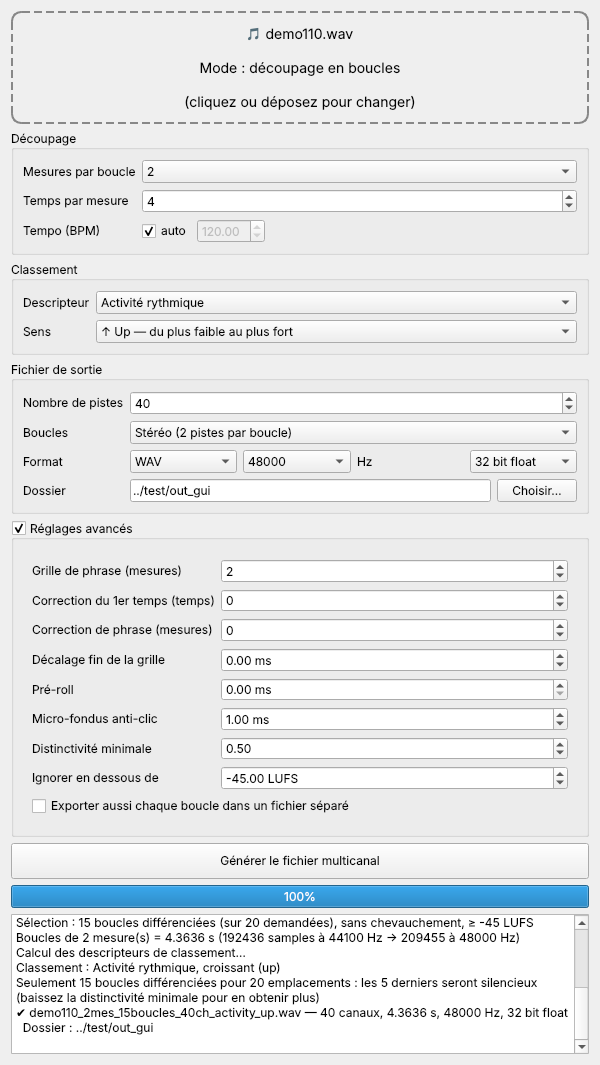
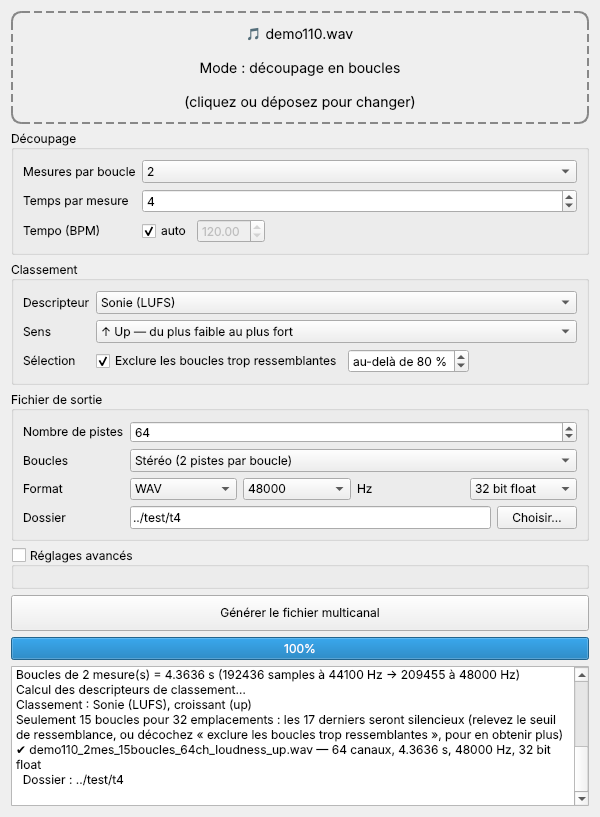
Add 'exclude too-similar loops' option, on by default
Similarity is expressed in % relative to the median distance between all
loops (100 % = identical). Default 80 % reproduces loop_slicer.py's
--min-dist 0.5. Now also applies in merge mode, so duplicate bounces are
dropped and reported. The CSV gains a ressemblance_max_% column.

diff --git a/loopslicer/engine.py b/loopslicer/engine.py
@@ -75,7 +75,10 @@ class Settings:
     beat_offset_ms: float = 0.0          # décalage fin de toute la grille
     preroll_ms: float = 0.0              # démarre chaque boucle un peu avant le temps
     # sélection
-    min_dist: float = 0.5                # distinctivité minimale pour ajouter une boucle
+    exclude_similar: bool = True         # écarte les boucles trop ressemblantes
+    similarity_max: float = 80.0         # % : ressemblance au-delà de laquelle on écarte
+    min_dist: Optional[float] = None     # seuil absolu (expert, cf. loop_slicer.py --min-dist) ;
+                                         # s'il est donné, il remplace similarity_max
     loud_floor: float = -45.0            # ignore les segments sous ce niveau (LUFS)
     weights: tuple = (1.0, 1.0, 1.0, 0.7)  # timbre, harmonie, texture, loudness
     # classement
@@ -102,6 +105,7 @@ class Loop:
     sr_in: int = 0
     audio: Optional[np.ndarray] = field(default=None, repr=False)  # au sr de sortie
     distinct: float = float("nan")          # distance min. aux boucles déjà choisies
+    similarity: float = float("nan")        # % de ressemblance avec la plus proche des autres retenues
     pick_order: int = 0
     features: dict = field(default_factory=dict)
 
@@ -261,10 +265,23 @@ def segment_features(seg, sr):
                 tex=np.r_[con.mean(1), bands, on.mean(), on.std(), side])
 
 
-def select(bars, feats, louds, nbars, n_max, min_dist, loud_floor, weights):
-    """Sélection gloutonne max-min : on part de la boucle la plus éloignée de
-    toutes les autres, puis on ajoute à chaque fois la plus éloignée de celles
-    déjà choisies, sans chevauchement (nbars), tant que la distance ≥ min_dist."""
+def similarity_threshold(D, s):
+    """Distance en dessous de laquelle deux boucles sont « trop ressemblantes ».
+
+    La ressemblance est exprimée en % par rapport à la distance médiane entre
+    toutes les boucles du morceau : 100 % = identiques, 0 % = aussi différentes
+    que deux boucles prises au hasard. 80 % correspond à peu près au seuil
+    --min-dist 0.5 de loop_slicer.py."""
+    if s.min_dist is not None:
+        return float(s.min_dist)
+    if not s.exclude_similar:
+        return 0.0
+    off = D[~np.eye(len(D), dtype=bool)]
+    med = float(np.median(off)) if off.size else 0.0
+    return (1 - s.similarity_max / 100.0) * med
+
+
+def distance_matrix(feats, louds, weights):
     def Z(k):
         X = np.array([f[k] for f in feats])
         X = (X - X.mean(0)) / (X.std(0) + 1e-9)
@@ -273,13 +290,21 @@ def select(bars, feats, louds, nbars, n_max, min_dist, loud_floor, weights):
     blocks = [Z("timbre") * weights[0], Z("harm") * weights[1], Z("tex") * weights[2],
               (L - L.mean()) / (L.std() + 1e-9) * weights[3]]
     X = np.hstack(blocks)
-    D = np.linalg.norm(X[:, None] - X[None], axis=2)
+    return np.linalg.norm(X[:, None] - X[None], axis=2)
+
+
+def select(bars, D, louds, nbars, n_max, min_dist, loud_floor):
+    """Sélection gloutonne max-min : on part de la boucle la plus éloignée de
+    toutes les autres, puis on ajoute à chaque fois la plus éloignée de celles
+    déjà choisies, sans chevauchement (nbars), tant que la distance ≥ min_dist.
+    Renvoie ([(indice, distance)], raison de l'arrêt)."""
     bars = np.asarray(bars)
     valid = np.isfinite(louds) & (louds > loud_floor)
     if not valid.any():
-        return []
+        return [], "aucune boucle assez forte"
     first = int(np.argmax(np.where(valid, D.sum(1), -1)))
     sel, dmins = [first], [np.inf]
+    reason = "plus de candidates disponibles"
     while len(sel) < n_max:
         best, bi = -1, None
         for i in range(len(bars)):
@@ -288,11 +313,27 @@ def select(bars, feats, louds, nbars, n_max, min_dist, loud_floor, weights):
             d = D[i, sel].min()
             if d > best:
                 best, bi = d, i
-        if bi is None or best < min_dist:
+        if bi is None:
+            break
+        if best < min_dist:
+            reason = "les autres candidates ressemblent trop aux boucles retenues"
             break
         sel.append(bi)
         dmins.append(best)
-    return list(zip(sel, dmins))
+    else:
+        reason = "nombre de pistes atteint"
+    return list(zip(sel, dmins)), reason
+
+
+def _similarities(D, idx):
+    """% de ressemblance de chaque boucle retenue avec la plus proche des autres."""
+    off = D[~np.eye(len(D), dtype=bool)]
+    med = float(np.median(off)) if off.size else 1.0
+    out = []
+    for i in idx:
+        others = [D[i, j] for j in idx if j != i]
+        out.append(100 * max(0.0, 1 - min(others) / med) if others and med > 0 else float("nan"))
+    return out
 
 
 # --------------------------------------------------------------------------
@@ -381,19 +422,23 @@ def slice_file(path: str, s: Settings, log: Logger, progress: Progress):
     louds = np.array(louds)
 
     n_max = _slots(s, len(cands))
-    picked = select([c[0] for c in cands], feats, louds, nbars, n_max,
-                    s.min_dist, s.loud_floor, s.weights)
+    D = distance_matrix(feats, louds, s.weights)
+    thr = similarity_threshold(D, s)
+    picked, reason = select([c[0] for c in cands], D, louds, nbars, n_max, thr, s.loud_floor)
+    sims = _similarities(D, [i for i, _ in picked])
     log(f"Sélection : {len(picked)} boucles différenciées (sur {n_max} demandées), "
-        f"sans chevauchement, ≥ {s.loud_floor:.0f} LUFS")
+        f"sans chevauchement, ≥ {s.loud_floor:.0f} LUFS — arrêt : {reason}")
+    if s.exclude_similar and s.min_dist is None:
+        log(f"  boucles trop ressemblantes écartées (ressemblance > {s.similarity_max:.0f} %)")
 
     loop_seconds = nbars * BAR
     length_out = int(round(loop_seconds * s.sample_rate))
     loops = []
-    for order, (i, dm) in enumerate(picked, 1):
+    for order, ((i, dm), sim) in enumerate(zip(picked, sims), 1):
         bar, st = cands[i]
         loops.append(Loop(index=bar // s.phrase_bars + 1, source=os.path.basename(path),
                           start_sample=st, start_measure=bar + 1, raw=y[st:st + L], sr_in=sr,
-                          distinct=float(dm), pick_order=order))
+                          distinct=float(dm), similarity=sim, pick_order=order))
     log(f"Boucles de {nbars} mesure(s) = {loop_seconds:.4f} s "
         f"({L} samples à {sr} Hz → {length_out} à {s.sample_rate} Hz)")
     info = dict(mode="slice", bpm=bpm, beat0_s=beat0, downbeat_beat=db, phrase_bar=pb,
@@ -432,15 +477,28 @@ def merge_files(paths: Sequence[str], s: Settings, log: Logger, progress: Progre
         progress(0.05 + 0.5 * (i + 1) / len(raw))
 
     n_max = _slots(s, len(loops))
-    if len(loops) > n_max:
-        picked = select(np.arange(len(loops)), feats, np.array(louds), 0, n_max,
-                        -np.inf, s.loud_floor, s.weights)
-        log(f"{len(loops)} fichiers pour {n_max} emplacements : on garde les {len(picked)} plus différenciés")
+    louds = np.array(louds)
+    D = distance_matrix(feats, louds, s.weights)
+    if len(loops) > n_max or s.exclude_similar or s.min_dist is not None:
+        thr = similarity_threshold(D, s)
+        picked, reason = select(np.arange(len(loops)), D, louds, 0, n_max, thr, s.loud_floor)
+        dropped = sorted(set(range(len(loops))) - {i for i, _ in picked})
+        log(f"{len(picked)} fichiers retenus sur {len(loops)} — arrêt : {reason}")
+        for i in dropped:
+            if not (np.isfinite(louds[i]) and louds[i] > s.loud_floor):
+                why = "trop faible"
+            else:
+                j = min((k for k, _ in picked), key=lambda k: D[i, k])
+                med = float(np.median(D[~np.eye(len(D), dtype=bool)]))
+                why = (f"ressemble à {loops[j].source} "
+                       f"({100 * max(0, 1 - D[i, j] / med):.0f} %)")
+            log(f"  écarté : {loops[i].source} — {why}")
     else:
         picked = [(i, np.nan) for i in range(len(loops))]
+    sims = _similarities(D, [i for i, _ in picked])
     chosen = []
-    for order, (i, dm) in enumerate(picked, 1):
-        loops[i].distinct, loops[i].pick_order = float(dm), order
+    for order, ((i, dm), sim) in enumerate(zip(picked, sims), 1):
+        loops[i].distinct, loops[i].pick_order, loops[i].similarity = float(dm), order, sim
         chosen.append(loops[i])
     info = dict(mode="merge", loop_seconds=length_out / s.sample_rate, loop_samples=length_out)
     return chosen, info
@@ -521,9 +579,12 @@ def write_output(ranked: List[Loop], info: dict, src_paths: Sequence[str],
     if s.n_tracks > 0 and s.n_tracks % cpl:
         log(f"Remarque : {s.n_tracks} pistes n'est pas un multiple de {cpl} — {slots} boucles")
     if len(ranked) < slots:
-        log(f"Seulement {len(ranked)} boucles différenciées pour {slots} emplacements : "
-            f"les {slots - len(ranked)} derniers seront silencieux "
-            f"(baissez la distinctivité minimale pour en obtenir plus)")
+        hint = (" (relevez le seuil de ressemblance, ou décochez « exclure les boucles "
+                "trop ressemblantes », pour en obtenir plus)"
+                if s.exclude_similar or s.min_dist is not None
+                else " (le morceau ne contient pas plus de boucles complètes)")
+        log(f"Seulement {len(ranked)} boucles pour {slots} emplacements : "
+            f"les {slots - len(ranked)} derniers seront silencieux{hint}")
     n_ch = slots * cpl
     length = info["loop_samples"]
     data = np.zeros((length, n_ch), dtype=np.float32)
@@ -566,7 +627,8 @@ def write_output(ranked: List[Loop], info: dict, src_paths: Sequence[str],
     with open(csv_path, "w", newline="", encoding="utf-8") as fh:
         w = csv.writer(fh)
         w.writerow(["rang", "canaux", "source", "mesure_debut", "debut_s",
-                    "debut_echantillon", "distinctivite", "ordre_selection", *FEATURE_KEYS]
+                    "debut_echantillon", "distinctivite", "ressemblance_max_%", "ordre_selection",
+                    *FEATURE_KEYS]
                    + (["fichier"] if loop_names else []))
         for i, L in enumerate(ranked):
             c0 = i * cpl + 1
@@ -575,6 +637,7 @@ def write_output(ranked: List[Loop], info: dict, src_paths: Sequence[str],
                         int(L.start_measure) if np.isfinite(L.start_measure) else "",
                         f"{L.start_sample / L.sr_in:.4f}", L.start_sample,
                         "" if not np.isfinite(L.distinct) else round(L.distinct, 2),
+                        "" if not np.isfinite(L.similarity) else round(L.similarity),
                         L.pick_order,
                         *[f"{L.features.get(k, float('nan')):.4f}" for k in FEATURE_KEYS]]
                        + ([loop_names[i]] if loop_names else []))

diff --git a/loopslicer/gui.py b/loopslicer/gui.py
@@ -130,6 +130,20 @@ class MainWindow(QWidget):
         self.order.addItem("↑ Up — du plus faible au plus fort", True)
         self.order.addItem("↓ Down — du plus fort au plus faible", False)
         f.addRow("Sens", self.order)
+        sim_row = QHBoxLayout()
+        self.excl = QCheckBox("Exclure les boucles trop ressemblantes")
+        self.excl.setChecked(True)
+        self.excl.setToolTip("Quand le morceau offre plus de boucles possibles que nécessaire, "
+                             "ou contient des passages répétés, on ne garde qu'une boucle par "
+                             "famille de boucles qui se ressemblent.")
+        self.sim = QSpinBox(); self.sim.setRange(30, 99); self.sim.setValue(80)
+        self.sim.setSuffix(" %"); self.sim.setPrefix("au-delà de ")
+        self.sim.setToolTip("Ressemblance (timbre, harmonie, texture, sonie) au-delà de laquelle "
+                            "une boucle est écartée. 100 % = identiques. Plus bas = plus sévère, "
+                            "donc moins de boucles.")
+        self.excl.toggled.connect(self.sim.setEnabled)
+        sim_row.addWidget(self.excl); sim_row.addWidget(self.sim); sim_row.addStretch()
+        f.addRow("Sélection", sim_row)
         root.addWidget(g_ord)
 
         # --- sortie ---------------------------------------------------------
@@ -180,10 +194,6 @@ class MainWindow(QWidget):
         f.addRow("Pré-roll", self.preroll)
         self.fade = QDoubleSpinBox(); self.fade.setRange(0, 50); self.fade.setValue(1); self.fade.setSuffix(" ms")
         f.addRow("Micro-fondus anti-clic", self.fade)
-        self.min_dist = QDoubleSpinBox(); self.min_dist.setRange(0, 10); self.min_dist.setSingleStep(0.1)
-        self.min_dist.setValue(0.5)
-        self.min_dist.setToolTip("Plus haut = moins de boucles mais plus différentes ; 0 = autant que possible")
-        f.addRow("Distinctivité minimale", self.min_dist)
         self.floor = QDoubleSpinBox(); self.floor.setRange(-90, 0); self.floor.setValue(-45)
         self.floor.setSuffix(" LUFS")
         f.addRow("Ignorer en dessous de", self.floor)
@@ -222,7 +232,8 @@ class MainWindow(QWidget):
         self.tracks.setValue(int(p.value("tracks", 64)))
         self.out_dir.setText(p.value("out_dir", ""))
         self.phrase.setValue(int(p.value("phrase", 2)))
-        self.min_dist.setValue(float(p.value("min_dist", 0.5)))
+        self.excl.setChecked(p.value("exclude_similar", "true") in (True, "true"))
+        self.sim.setValue(int(p.value("similarity", 80)))
         self.floor.setValue(float(p.value("floor", -45)))
         self.individual.setChecked(p.value("individual", "false") in (True, "true"))
 
@@ -234,7 +245,8 @@ class MainWindow(QWidget):
         p.setValue("tracks", self.tracks.value())
         p.setValue("out_dir", self.out_dir.text())
         p.setValue("phrase", self.phrase.value())
-        p.setValue("min_dist", self.min_dist.value())
+        p.setValue("exclude_similar", self.excl.isChecked())
+        p.setValue("similarity", self.sim.value())
         p.setValue("floor", self.floor.value())
         p.setValue("individual", self.individual.isChecked())
 
@@ -275,7 +287,8 @@ class MainWindow(QWidget):
             beat_offset_ms=self.offset.value(),
             preroll_ms=self.preroll.value(),
             fade_ms=self.fade.value(),
-            min_dist=self.min_dist.value(),
+            exclude_similar=self.excl.isChecked(),
+            similarity_max=float(self.sim.value()),
             loud_floor=self.floor.value(),
             export_individual=self.individual.isChecked(),
         )

diff --git a/loopslicer/cli.py b/loopslicer/cli.py
@@ -31,7 +31,12 @@ def main():
     g.add_argument("--beat-offset-ms", type=float, default=0, help="décalage fin de toute la grille (ms)")
     g.add_argument("--preroll-ms", type=float, default=0)
     g.add_argument("--fade-ms", type=float, default=1, help="micro-fondus anti-clic (0 = coupe franche)")
-    g.add_argument("--min-dist", type=float, default=0.5, help="distinctivité minimale")
+    ap.add_argument("--similarity", type=float, default=80,
+                    help="écarte les boucles ressemblant à plus de N %% à une boucle retenue (80)")
+    ap.add_argument("--keep-similar", action="store_true",
+                    help="ne pas exclure les boucles trop ressemblantes")
+    g.add_argument("--min-dist", type=float, default=None,
+                   help="seuil de distance absolu de loop_slicer.py (remplace --similarity)")
     g.add_argument("--loud-floor", type=float, default=-45, help="ignore les segments sous ce niveau (LUFS)")
     g.add_argument("--weights", type=float, nargs=4, default=[1, 1, 1, 0.7],
                    metavar=("TIMBRE", "HARMONIE", "TEXTURE", "LOUDNESS"))
@@ -45,6 +50,7 @@ def main():
                  phrase_bars=a.phrase_bars, downbeat_shift=a.downbeat_shift,
                  phrase_shift=a.phrase_shift, beat_offset_ms=a.beat_offset_ms,
                  preroll_ms=a.preroll_ms, fade_ms=a.fade_ms, min_dist=a.min_dist,
+                 exclude_similar=not a.keep_similar, similarity_max=a.similarity,
                  loud_floor=a.loud_floor, weights=tuple(a.weights), snap_bpm=not a.no_snap,
                  export_individual=a.individual)
     run(a.inputs, s)
